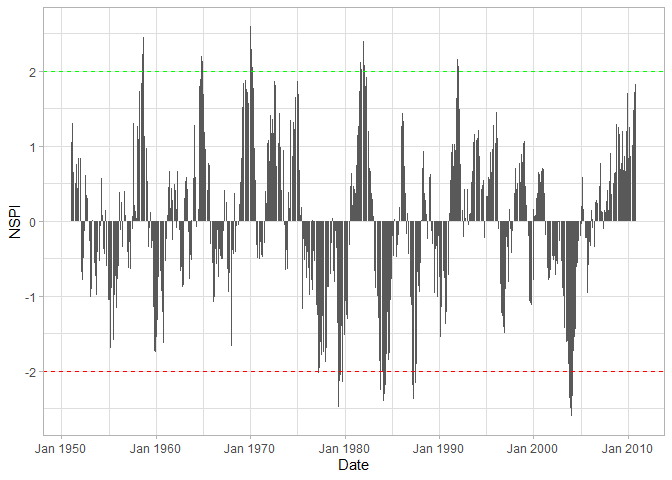
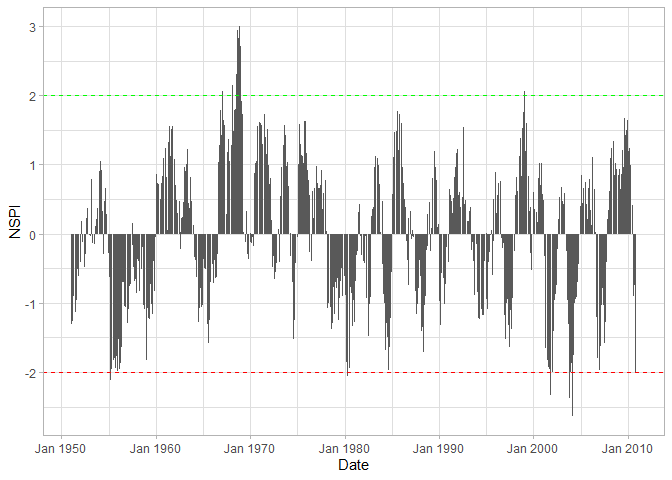
Adding graph

diff --git a/README.md b/README.md
@@ -31,15 +31,16 @@ rain = dummyrainfall(startYear = 1950, endYear = 2010)
 drought = computenspi(monthlyRainfall = rain, stationary = FALSE, spiScale = 12)
 ```
 
-    ## GAMLSS-RS iteration 1: Global Deviance = 3425.403 
-    ## GAMLSS-RS iteration 2: Global Deviance = 3425.351 
-    ## GAMLSS-RS iteration 3: Global Deviance = 3425.351
+    ## GAMLSS-RS iteration 1: Global Deviance = 3477.976 
+    ## GAMLSS-RS iteration 2: Global Deviance = 3477.959 
+    ## GAMLSS-RS iteration 3: Global Deviance = 3477.959
 
 ``` r
 # Plot NSPI
 plot(drought)
 ```
 
-![](README_files/figure-gfm/unnamed-chunk-2-1.png)<!-- -->
+![](README_figs/README-unnamed-chunk-3-1.png)<!-- -->
 
-[](%22%3CREADME_files/figure-gfm/unnamed-chunk-2-1.png%3E#%3C10%3Ex%3C10%3E%22)
+[](%22%3CREADME_files/figure-gfm/unnamed-chunk-2-1.png%3E#%3C5%3Ex%3C5%3E%22)
+<!--#  -->
